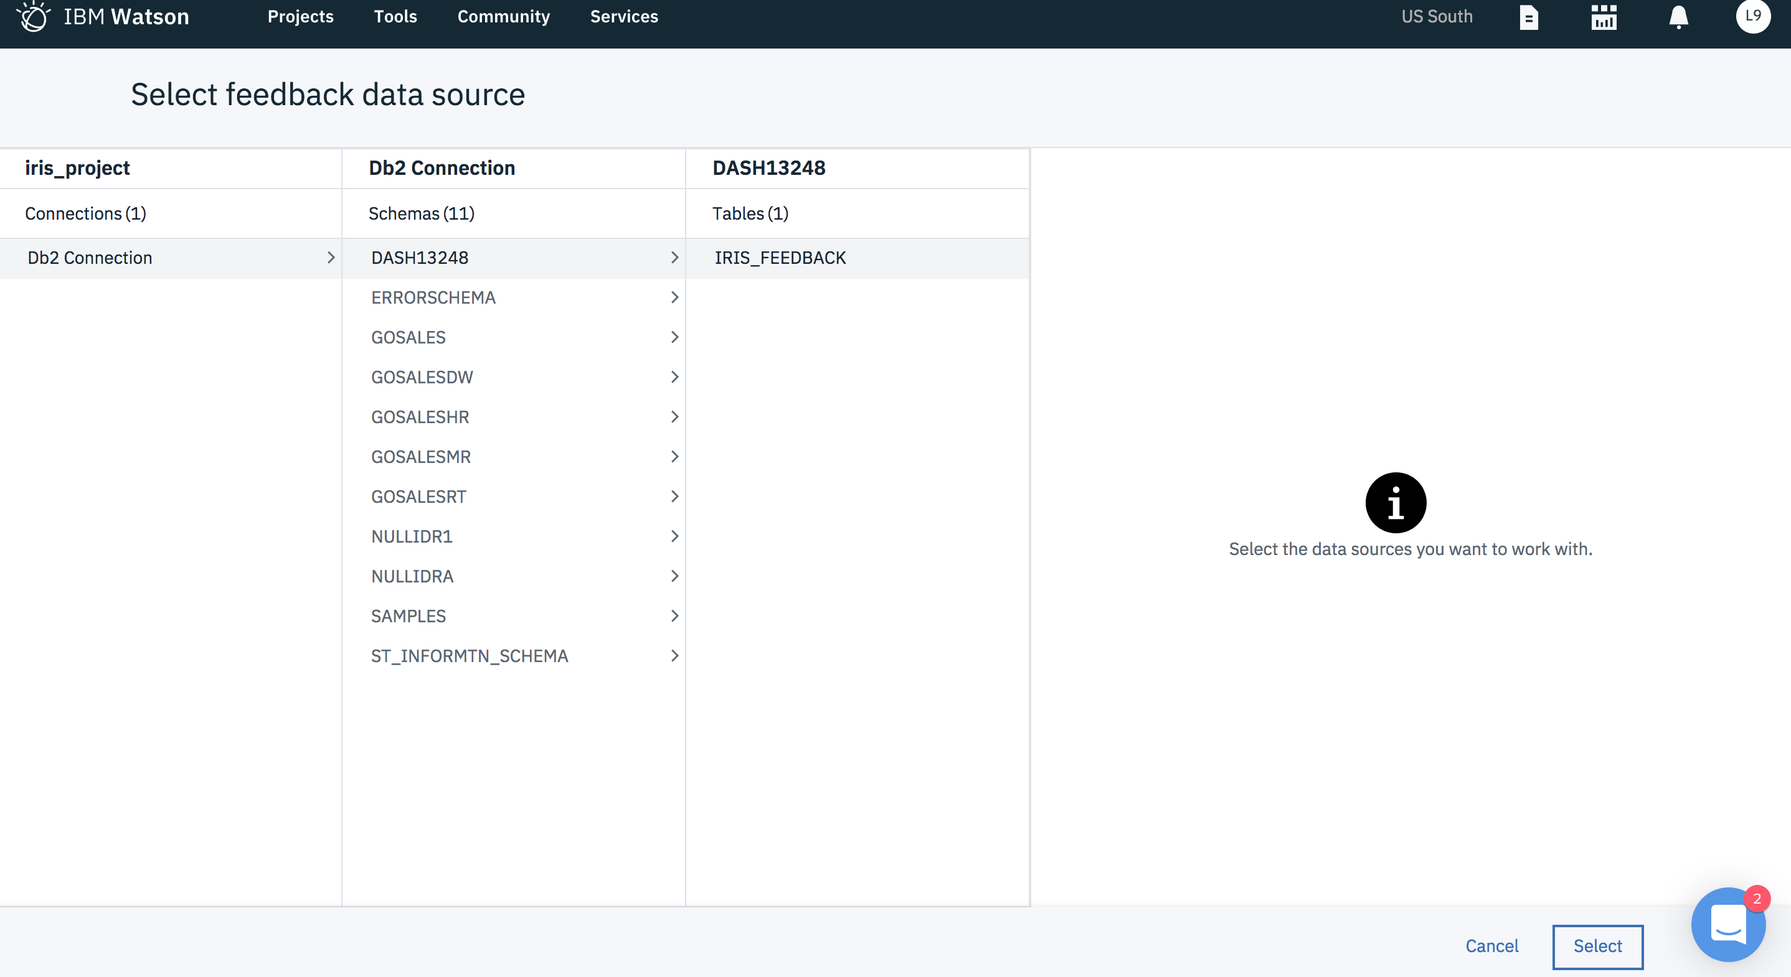
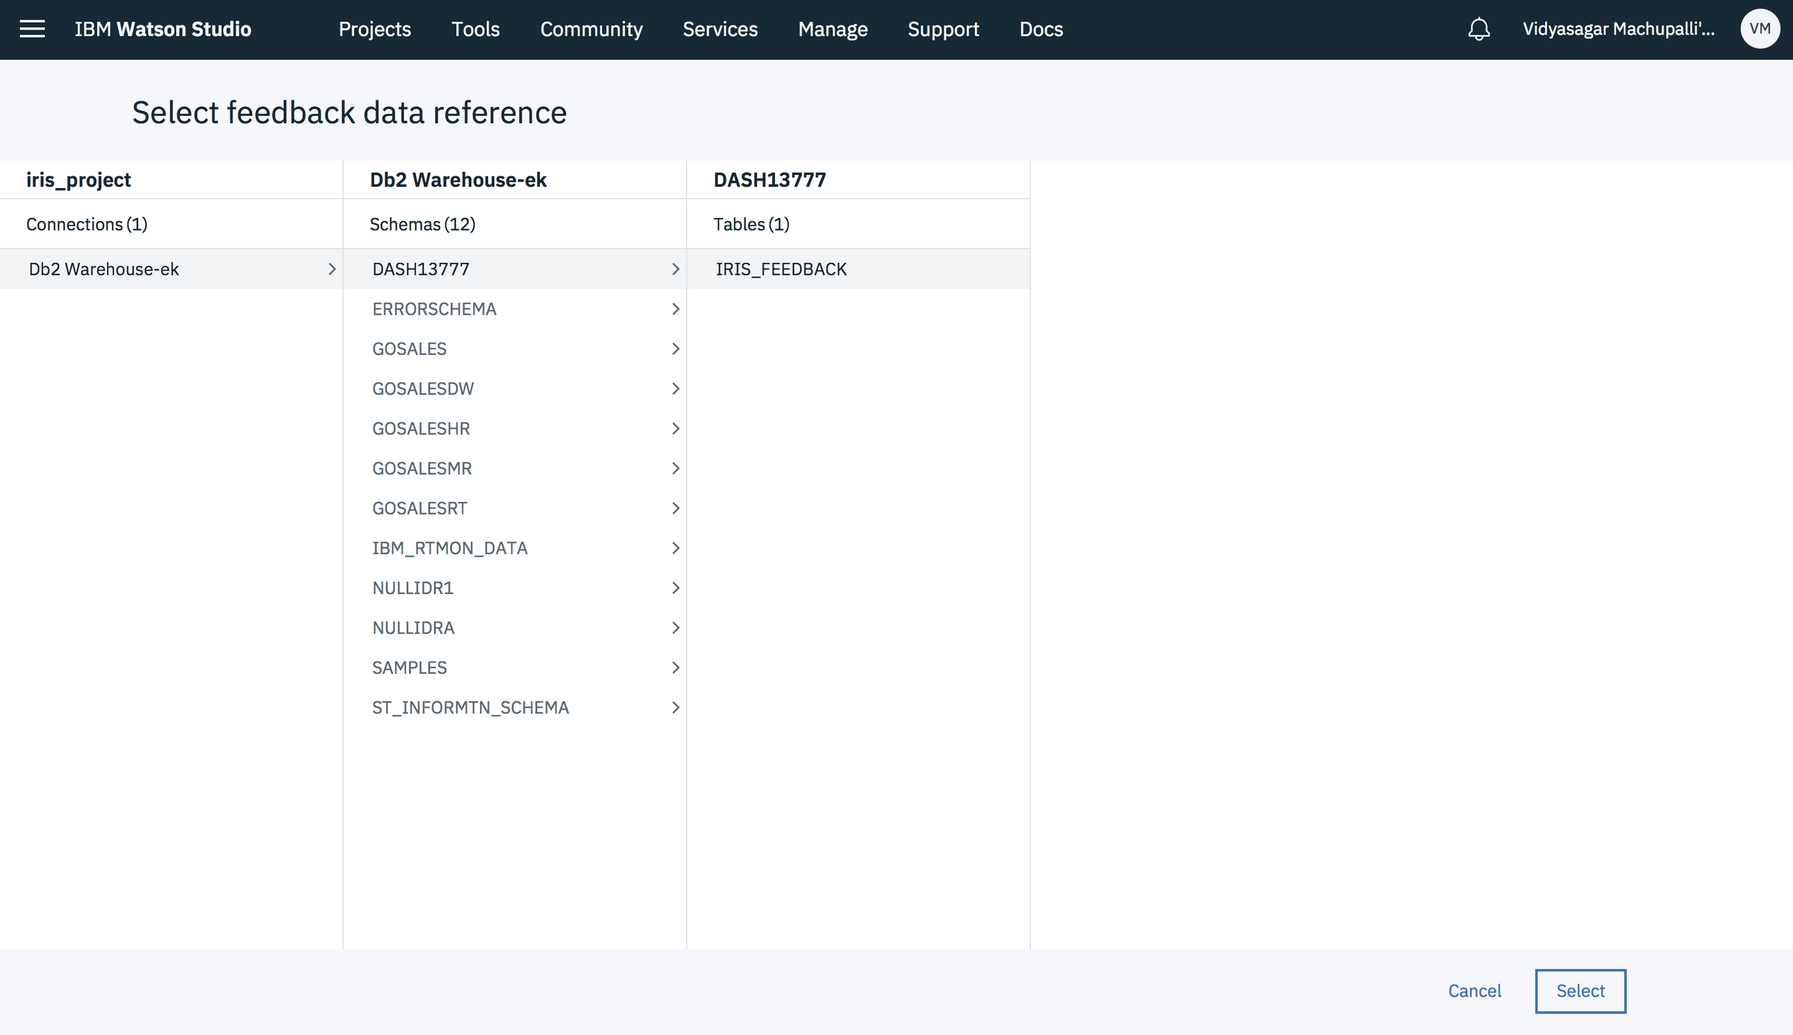
2018-09-20 14:11:15+0000 (8e1ec9e2cb4eb521c84886532ce44e425200baf9)

diff --git a/create-deploy-retrain-machine-learning-model.md b/create-deploy-retrain-machine-learning-model.md
@@ -1,7 +1,7 @@
 ---
 copyright:
   years: 2018
-lastupdated: "2018-06-11"
+lastupdated: "2018-09-18"
 
 ---
 
@@ -27,7 +27,6 @@ In the terminology of machine learning, classification is considered an instance
 {:shortdesc}
 
 <p style="text-align: center;">
-
   ![](images/solution22-build-machine-learning-model/architecture_diagram.png)
 </p>
 
@@ -53,7 +52,7 @@ This tutorial uses the following runtimes and services:
 
 ## Before you begin
 {: #prereqs}
-* IBM Watson Studio and Watson Knowledge Catalog are applications that are part of IBM Watson. To create an IBM Watson account, begin by signing up for one or both of these applications. 
+* IBM Watson Studio and Watson Knowledge Catalog are applications that are part of IBM Watson. To create an IBM Watson account, begin by signing up for one or both of these applications.
 
    Go to [Try IBM Watson](https://dataplatform.ibm.com/registration/stepone) and sign up for IBM Watson apps.
 
@@ -67,7 +66,7 @@ You can create a project to add data and open a data asset in the data refiner f
 
 **Create a project:**
 
-1. Go to the [{{site.data.keyword.Bluemix_short}} catalog](https://console.bluemix.net/catalog) and select [{{site.data.keyword.DSX_short}}](https://console.bluemix.net/catalog/services/data-science-experience?taxonomyNavigation=app-services) under the **Watson** section. **Create** the service. Click on the **Get Started** button to launch the **{{site.data.keyword.DSX_short}}** dashboard.
+1. Go to the [{{site.data.keyword.Bluemix_short}} catalog](https://console.bluemix.net/catalog) and select [{{site.data.keyword.DSX_short}}](https://console.bluemix.net/catalog/services/data-science-experience?taxonomyNavigation=app-services) under the **AI** section. **Create** the service. Click on the **Get Started** button to launch the **{{site.data.keyword.DSX_short}}** dashboard.
 
    ![](images/solution22-build-machine-learning-model/data_platform_landing.png)
 
@@ -76,10 +75,8 @@ You can create a project to add data and open a data asset in the data refiner f
    ![](images/solution22-build-machine-learning-model/new_project.png)
 
 3. Leave the **Restrict who can be a collaborator** checkbox unchecked as there's no confidential data.
-
-4. Under **Define Storage**, Click on **Add** and choose an existing object storage service or create a new one (Select **Lite** plan > Create). Hit **Refresh** to see the created service.
-
-7. Click **Create**. Your new project opens and you can start adding resources to it.
+4. Under **Define Storage**, Click on **Add** and choose an existing Cloud Object Storage service or create a new one (Select **Lite** plan > Create). Hit **Refresh** to see the created service.
+5. Click **Create**. Your new project opens and you can start adding resources to it.
 
 **Import data:**
 
@@ -94,44 +91,46 @@ As mentioned earlier, you will be using the **Iris data set**. The Iris dataset 
       ![](images/solution22-build-machine-learning-model/find_and_add_data.png)
 3. Once added, you should see `iris_initial.csv` under the **Data assets** section of the project. Click on the name to see the contents of the data set.
 
+## Associate services
+{:#associate_services}
+1. Under **Settings**, scroll to **Associated services** > click  **Add service** > choose  **Spark**.
+   ![](images/solution22-build-machine-learning-model/associate_services.png)
+2. Select **Lite** plan and click **Create**. Use the default values and click **Confirm**.
+3. Click **Add Service** again and choose **Watson**. Click **Add** on **Machine Learning** tile > choose **Lite** plan > click **Create**.
+4. Leave the default values and click **Confirm** to provision a Machine Learning service.
+
 ## Build a machine learning model
 
 {:#build_model}
 
-1. Back in the **Assets** overview, under **Models** click on **New model**. In the dialog, add **iris_model** as name and an optional description.
-
-2. Under **Machine Learning Service** section, click on **Associate a Machine Learning service instance** to bind a machine learning service (**Lite** plan) to your project. Click **Reload**.
+1. Back in the **Assets** tab, under **Watson Machine Learning models** click on **New Watson Machine Learning model**. In the dialog, add **iris_model** as name and an optional description.
+2. Under **Machine Learning Service** section, you should see the Machine Learning service you associated in the above step.
    ![](images/solution22-build-machine-learning-model/machine_learning_model_creation.png)
-
-3. Select **Model builder** as your model type and **Manual** to manually create a model. Click **Create**.
+3. Select **Model builder** as your model type and Under **Spark Service or Environment** section, Choose the spark service you created earlier
+4. Select **Manual** to manually create a model. Click **Create**.
 
    For the automatic method, you rely on automatic data preparation (ADP) completely. For the manual method, in addition to some functions that are handled by the ADP transformer, you can add and configure your own estimators, which are the algorithms used in the analysis.
    {:tip}
 
-4. Under **Spark Service** section, click on **Associate an IBM Analytics for Apache Spark instance** to bind a Apache Spark service (**Lite** plan) to your project. Click **Reload**.
-
-6. On the next page, select `iris_initial.csv` as your data set and click **Next**.
-
-7. On the **Select a technique** page, based on the data set added, Label columns and feature columns are pre-populated. Select **species (String)** as your **Label Col** and **petal_length (Decimal)** and **petal_width (Decimal)** as your **Feature columns**.
-
-8. Choose **Multiclass Classification** as your suggested technique.
+5. On the next page, select `iris_initial.csv` as your data set and click **Next**.
+6. On the **Select a technique** page, based on the data set added, Label columns and feature columns are pre-populated. Select **species (String)** as your **Label Col** and **petal_length (Decimal)** and **petal_width (Decimal)** as your **Feature columns**.
+7. Choose **Multiclass Classification** as your suggested technique.
    ![](images/solution22-build-machine-learning-model/model_technique.png)
-
 8. For **Validation Split** configure the following setting:
 
    **Train:** 50%,
    **Test** 25%,
    **Holdout:** 25%
 
-10. Click on **Add Estimators** and select **Decision Tree Classifier**, then **Add**.
+9. Click on **Add Estimators** and select **Decision Tree Classifier**, then **Add**.
 
-    You can evaluate multiple estimators in one go. For example, you can add **Decision Tree Classifier** and **Random Forest Classifier** as estimators to train your model and choose the best fit based on the evaluation output.
-    {:tip}
+   You can evaluate multiple estimators in one go. For example, you can add **Decision Tree Classifier** and **Random Forest Classifier** as estimators to train your model and choose the best fit based on the evaluation output.
+   {:tip}
 
-11. Click **Next** to train the model. Once you see the status as **Trained & Evaluated**, click **Save**.
-    ![](images/solution22-build-machine-learning-model/trained_model.png)
+10. Click **Next** to train the model. Once you see the status as **Trained & Evaluated**, click **Save**.
+   ![](images/solution22-build-machine-learning-model/trained_model.png)
 
-10. Click on **Overview** to check the details of the model.
+11. Click on **Overview** to check the details of the model.
 
 ## Deploy the model and try out the API
 
@@ -150,7 +149,7 @@ As mentioned earlier, you will be using the **Iris data set**. The Iris dataset 
    * `deployment_id` and `published_model_id` are under **Overview** of your deployment.
    *  For `online_prediction_input`, use the below JSON
 
-     ```
+     ```json
      {
      	"fields": ["sepal_length", "sepal_width", "petal_length", "petal_width"],
      	"values": [
@@ -158,7 +157,7 @@ As mentioned earlier, you will be using the **Iris data set**. The Iris dataset 
      	]
      }
      ```
-   *  Click on **Try it out** to see the JSON output.
+   * Click on **Try it out** to see the JSON output.
 
 6. Using the API endpoints, you can now call this model from any application.
 
@@ -178,14 +177,10 @@ As mentioned earlier, you will be using the **Iris data set**. The Iris dataset 
 
 1. For continuous learning and model evaluation, you need to store new data somewhere. Create a  [{{site.data.keyword.dashdbshort}}](https://console.bluemix.net/catalog/services/db2-warehouse) service > **Entry** plan which acts as our feedback data connection.
 2. On the {{site.data.keyword.dashdbshort}} **Manage** page, click **Open**. On the top navigation, select **Load**.
-
 3. Click on **browse files** under **My computer** and upload `iris_initial.csv`. Click **Next**.
-
 4. Select **DASHXXXX**, e.g., DASH1234 as your **Schema** and then click on **New Table**. Name it `IRIS_FEEDBACK` and click **Next**.
-
 5. Datatypes are automatically detected. Click **Next** and then **Begin Load**.
    ![](images/solution22-build-machine-learning-model/define_table.png)
-
 6. A new target **DASHXXXX.IRIS_FEEDBACK** is created.
 
    You will be using this in the next step where you will be re-training the model for better performance and precision.
@@ -194,7 +189,7 @@ As mentioned earlier, you will be using the **Iris data set**. The Iris dataset 
 
 {:#retrain_model}
 
-1. Return to https://dataplatform.ibm.com and on the top navigation, click on **Projects** > YOUR_PROJECT >  **iris-model** (under assets) > Evaluation.
+1. Return to your [{{site.data.keyword.Bluemix_short}} Dashboard](https://console.bluemix.net/dashboard/apps) and under the {{site.data.keyword.DSX_short}} service you have been using, click on **Projects** > iris_project >  **iris-model** (under assets) > Evaluation.
 2. Under **Performance Monitoring**, Click on **Configure Performance Monitoring**.
 3. On the configure Performance Monitoring page,
    * Select the Spark service. Prediction type should be populated automatically.
@@ -202,7 +197,7 @@ As mentioned earlier, you will be using the **Iris data set**. The Iris dataset 
    * Click on **Create new connection** to point to the IBM Db2 Warehouse on cloud which you created in the above section.
    * Select the Db2 warehouse connection and once the connection details are populated, click **Create**.
      ![](images/solution22-build-machine-learning-model/new_db2_connection.png)
-   * Click on **Select source** and point to the IRIS_FEEDBACK table and click **Select**.
+   * Click on **Select feedback data reference** and point to the IRIS_FEEDBACK table and click **Select**.
      ![](images/solution22-build-machine-learning-model/select_source.png)
    * In the **Record count required for re-evaluation** box, type the minimum number of new records to trigger retraining. Use **10** or leave blank to use the default value of 1000.
    * In the **Auto retrain** box, select one of the following options:
@@ -223,8 +218,8 @@ As mentioned earlier, you will be using the **Iris data set**. The Iris dataset 
 ## Remove resources
 {:removeresources}
 
-1. Navigate to [Dashboard](https://console.bluemix.net/dashboard/) > choose the region, Org and space where you have created the services.
-2. Under **Services**, delete the respective {{site.data.keyword.DSX_short}}, {{site.data.keyword.sparks}}, {{site.data.keyword.pm_short}}, {{site.data.keyword.dashdbshort}} and {{site.data.keyword.cos_short}} services which you created for this tutorial.
+1. Navigate to [{{site.data.keyword.Bluemix_short}} Dashboard](https://console.bluemix.net/dashboard/) > choose the region, Org and space where you have created the services.
+2. Delete the respective {{site.data.keyword.DSX_short}}, {{site.data.keyword.sparks}}, {{site.data.keyword.pm_short}}, {{site.data.keyword.dashdbshort}} and {{site.data.keyword.cos_short}} services which you created for this tutorial.
 
 ## Related content
 {:related}

diff --git a/static-files-cdn.md b/static-files-cdn.md
@@ -1,7 +1,7 @@
 ---
 copyright:
   years: 2017, 2018
-lastupdated: "2018-06-05"
+lastupdated: "2018-09-19"
 
 ---
 
@@ -14,7 +14,7 @@ lastupdated: "2018-06-05"
 
 # Accelerate delivery of static files using a CDN
 
-This tutorial walks you through how to host and serve website assets (images, videos, documents) and user generated content in a {{site.data.keyword.cos_full_notm}}, and how to use a [Content Delivery Network (CDN)](https://console.bluemix.net/catalog/infrastructure/cdn-powered-by-akamai) for fast and secure delivery to users around the world.
+This tutorial walks you through how to host and serve website assets (images, videos, documents) and user generated content in a {{site.data.keyword.cos_full_notm}}, and how to use a [{{site.data.keyword.cdn_full}} (CDN)](https://console.bluemix.net/catalog/infrastructure/cdn-powered-by-akamai) for fast and secure delivery to users around the world.
 
 Web applications have different types of content: HTML content, images, videos, cascading style sheets, JavaScript files, user-generated content. Some contents change often, others not so much, some are accessed very often by lot of users, others occasionally. As the audience for the application grows, you may want to offload serving these contents to another component, freeing resources for your main application. You may also want to have these contents served from a location close to your application users, wherever they are in the world.
 
@@ -27,7 +27,7 @@ There are many reasons why you would use a Content Delivery Network in these sit
 {: #objectives}
 
 * Upload files to a {{site.data.keyword.cos_full_notm}} bucket.
-* Make content globally available with a CDN.
+* Make content globally available with a Content Delivery Network (CDN).
 * Expose files by using a Cloud Foundry web application.
 
 ## Services used
@@ -35,7 +35,7 @@ There are many reasons why you would use a Content Delivery Network in these sit
 
 This tutorial uses the following products:
    * [{{site.data.keyword.cos_full_notm}}](https://console.bluemix.net/docs/services/cloud-object-storage/about-cos.html#about-ibm-cloud-object-storage)
-   * [Content Delivery Network](https://console.bluemix.net/catalog/infrastructure/cdn-powered-by-akamai)
+   * [{{site.data.keyword.cdn_full}}](https://console.bluemix.net/catalog/infrastructure/cdn-powered-by-akamai)
 
 This tutorial may incur costs. Use the [Pricing Calculator](https://console.bluemix.net/pricing/) to generate a cost estimate based on your projected usage.
 
@@ -150,26 +150,22 @@ In this section, you will create a CDN service. The CDN service distributes cont
 
 ### Create a CDN instance
 
-1. Go to the catalog in the console, and select **Content Delivery Network** from the Network section. This CDN is powered by Akamai.
-2. Create a Content Delivery Network instance.
-3. Select **Akamai** as the CDN Provider and click **Start Provision**.
-
-### Configure the CDN instance
-
-1. Set the **hostname** for the CDN to your custom domain. Although you set a custom domain, you can still access the CDN contents through the IBM provided CNAME. So if you don't plan to use custom domain, you can set an arbitrary name.
-2. Set the **Custom CNAME** prefix. Do not use dots "." in the name.
-3. Leave the path empty.
-4. Select **Object Storage** as Origin.
-5. Set the endpoint to your bucket API endpoint, such as *s3-api.us-geo.objectstorage.softlayer.net*.
-6. Set the bucket name to *your-bucket-name*.
+1. Go to the catalog in the console, and select **Content Delivery Network** from the Network section. This CDN is powered by Akamai. Click **Create**.
+2. On the next dialog, set the **Hostname** for the CDN to your custom domain. Although you set a custom domain, you can still access the CDN contents through the IBM provided CNAME. So if you don't plan to use custom domain, you can set an arbitrary name.
+3. Set the **Custom CNAME** prefix to a unique value.
+4. Next, under **Configure your origin**, select **Object Storage** to configure the CDN for COS.
+5. Set the **Endpoint** to your bucket API endpoint, such as *s3-api.us-geo.objectstorage.softlayer.net*.
+6. Leave **Host header** and **Path** empty. Set **Bucket name** to *your-bucket-name*.
 7. Enable both HTTP (80) and HTTPS (443) ports.
-8. Click **Create**.
+8. For **SSL certificate** select *DV SAN Certificate* if you want to use a custom domain. Else, for accessing the storage via CNAME, pick the **Wildcard Certificate* option.
+9. Click **Create**.
 
 ### Access your content through the CDN CNAME
 
 1. Select the CDN instance in the list at [https://control.bluemix.net/network/cdn](https://control.bluemix.net/network/cdn).
-2. The Details panel shows the CNAME for your CDN.
-3. Access your file with `https://your-cdn-cname.cdnedge.bluemix.net/a-picture.png`. If you omit the file name, you should see the S3 ListBucketResult instead.
+2. If you earlier picked *DV SAN Certificate*, you will be prompted for domain validation once the inital setup is completed. Follow the steps shown when clicking on **View domain validation**.
+3. The **Details** panel shows both the **Hostname** and the **CNAME** for your CDN.
+4. Access your file with `https://your-cdn-cname.cdnedge.bluemix.net/a-picture.png` or, if you are using a custom domain, `https://your-cdn-hostname/a-picture.png`. If you omit the file name, you should see the S3 ListBucketResult instead.
 
 ## Deploy the Cloud Foundry application
 

diff --git a/multi-region-k8s-cis.md b/multi-region-k8s-cis.md
@@ -1,7 +1,7 @@
 ---
 copyright:
   years: 2018
-lastupdated: "2018-06-12"
+lastupdated: "2018-09-18"
 
 ---
 
@@ -18,9 +18,9 @@ lastupdated: "2018-06-12"
 
 # Resilient and secure multi-region Kubernetes clusters with Cloud Internet Services
 
-Users are less likely to experience downtime when an application is designed with resiliency in mind. When implementing a solution with {{site.data.keyword.containershort_notm}}, you benefit from built-in capabilities, like load balancing and isolation, increase resiliency against potential failures with hosts, networks, or apps. By creating multiple clusters and if an outage occurs with one cluster, users can still access an app that is also deployed in another cluster. With multiple clusters in different regions, users can also access the closest cluster and reduce network latency.
+Users are less likely to experience downtime when an application is designed with resiliency in mind. When implementing a solution with {{site.data.keyword.containershort_notm}}, you benefit from built-in capabilities, like load balancing and isolation, increase resiliency against potential failures with hosts, networks, or apps. By creating multiple clusters and if an outage occurs with one cluster, users can still access an app that is also deployed in another cluster. With multiple clusters in different regions, users can also access the closest cluster and reduce network latency. For additional resiliency, you have the option to also select the multi-zone clusters, meaning your nodes are deployed across multiple zones within a region. 
 
-This tutorial highlights how Cloud Internet Services (CIS), a uniform platform to configure and manage the Domain Name System (DNS), Global Load Balancing (GLB), Web Application Firewall (WAF), and protection against Distributed Denial of Service (DDoS) for internet applications, can be integrated with Kubernetes clusters to support this scenario and to deliver a secure and resilient solution across multiple regions.
+This tutorial highlights how Cloud Internet Services (CIS), a uniform platform to configure and manage the Domain Name System (DNS), Global Load Balancing (GLB), Web Application Firewall (WAF), and protection against Distributed Denial of Service (DDoS) for internet applications, can be integrated with Kubernetes clusters to support this scenario and to deliver a secure and resilient solution across multiple regions. 
 
 ## Objectives
 {: #objectives}
@@ -45,7 +45,6 @@ This tutorial may incur costs. Use the [Pricing Calculator](https://console.blue
 {: #architecture}
 
 <p style="text-align: center;">
-
   ![Architecture](images/solution32-multi-region-k8s-cis/Architecture.png)
 </p>
 
@@ -76,9 +75,9 @@ To create a cluster:
 1. Select **{{site.data.keyword.containershort_notm}}** from the [{{site.data.keyword.cloud_notm}} catalog](https://console.bluemix.net/containers-kubernetes/catalog/cluster/create).
 1. Set **Region** to **US South**.
 1. Select **Standard** cluster.
-1. Select one or more zones as **Location**.
+1. Select one or more zones as **Location**. Creating a multi-zone cluster increases the application resiliency. Users are much less likely to experience downtime when app are distributed across multiple zones. More on multi-zone clusters can be found [here](https://console.bluemix.net/docs/containers/cs_clusters_planning.html#ha_clusters).
 1. Set **Machine type** to the smallest available - **2 CPUs** and **4GB RAM** is sufficient for this tutorial.
-1. Use **2** worker nodes.
+1. Use **2** worker nodes. 
 1. Set **Cluster name** to **my-us-cluster**. Use the naming pattern *`my-<region>-cluster`* to be consistent with this tutorial.
 
 While the cluster is getting ready, you are going to prepare the application.
@@ -372,3 +371,4 @@ In addition, you can now control what content gets cached by CIS and how long it
 * [{{site.data.keyword.registrylong_notm}} Basic](https://console.bluemix.net/docs/services/Registry/registry_overview.html#registry_planning)
 * [Deploying single instance apps to Kubernetes clusters](https://console.bluemix.net/docs/containers/cs_tutorials_apps.html#cs_apps_tutorial_lesson1)
 * [Best practice to secure traffic and internet application via CIS](https://console.bluemix.net/docs/infrastructure/cis/managing-for-security.html#manage-your-ibm-cis-for-optimal-security)
+* [Improving App Availability with Multizone Clusters](https://www.ibm.com/blogs/bluemix/2018/06/improving-app-availability-multizone-clusters/)

diff --git a/cloud-e2e-security.md b/cloud-e2e-security.md
@@ -188,7 +188,7 @@ With {{site.data.keyword.appid_short}}, you can secure resources and add authent
 1. Create an instance of [{{site.data.keyword.appid_short}}](https://console.bluemix.net/catalog/services/AppID).
    * Set the **name** to **secure-file-storage-appid**.
    * Use the same **region** and **resource group** as for the previous services.
-1. Under **Identity Providers / Manage**, add a **web redirect URL** pointing to the domain you will use for the application. Assuming your cluster Ingress subdomain is 
+1. Under **Identity Providers / Manage**, in the **Settings** tab, add a **web redirect URL** pointing to the domain you will use for the application. Assuming your cluster Ingress subdomain is 
 _&lt;cluster-name&gt;.us-south.containers.appdomain.cloud_, the redirect URL will be `https://secure-file-storage.<cluster-name>.us-south.containers.appdomain.cloud/appid_callback`. {{site.data.keyword.appid_short}} requires the web redirect URL to be **https**. You can view your Ingress subdomain in the cluster dashboard or with `ibmcloud ks cluster-get <cluster-name>`.
 
 You should customize the identity providers that are used and the login and user management experience in the {{site.data.keyword.appid_short}} dashboard. In this tutorial we use the defaults for simplicity.
